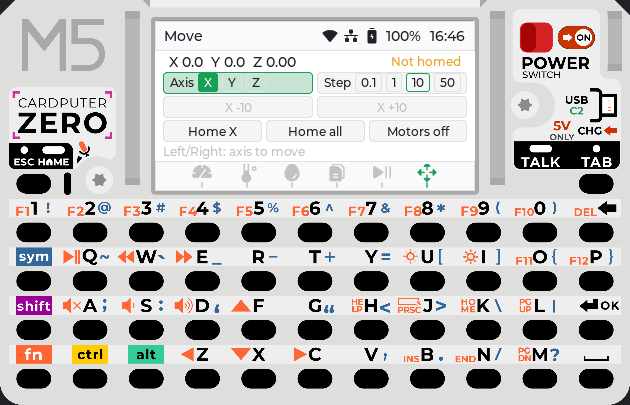
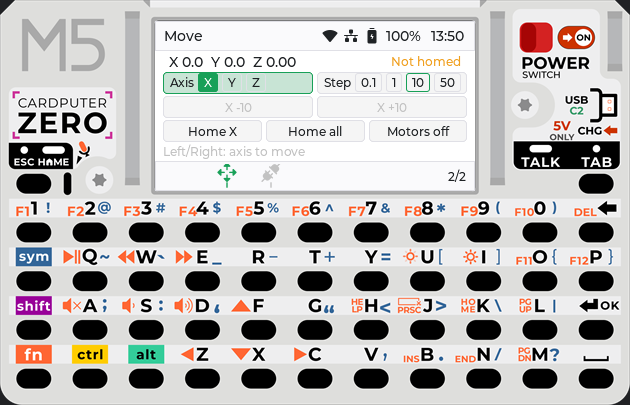
README: スクリーンショットをレイヤー制のナビバーで撮り直し、撮影スクリプトを追加

diff --git a/README.md b/README.md
@@ -23,7 +23,7 @@ M5Stack **CardputerZero** に Klipper / Moonraker を載せ、本体の画面と
 
 ### 画面構成
 
-<img src="docs/images/screen-status-printing.png" width="640" alt="印刷中の状態表示画面。上からタイトルバー、PRINTING バッジとファイル名と進捗バー、時間・レイヤー・温度、最下行の Speed/Flow/Fan、ナビバー">
+<img src="docs/images/screen-status-printing.png" width="640" alt="印刷中の状態表示画面。上からタイトルバー、PRINTING バッジとファイル名と進捗バー、時間・レイヤー・温度、最下行の Speed/Flow/Fan、5 スロットのナビバーと右端のレイヤー表示 1/2">
 
 どの画面も同じ枠組みです。
 
@@ -35,9 +35,7 @@ M5Stack **CardputerZero** に Klipper / Moonraker を載せ、本体の画面と
 - **トースト**: 操作の結果(成功 / Klipper のエラー)や「Printer is not ready」などを、画面下部に一時的に出す。
 - **テーマ**: ライト / ダークを `D` で切り替える。
 
-> この README のスクリーンショットは、デスクトップシミュレーターを疑似 Moonraker(fake_moonraker)に接続して撮影したものです。本体フレームとバーチャルキーボードを含めて表示しています(キーボード上の記号はシミュレーターでのキー割り当ての目安です)。
->
-> ⚠ スクリーンショットのナビバーは、レイヤー制にする前の旧仕様(6 アイコン、キー `4`〜`9`)のままです。現在のナビバーは上の説明のとおり 5 スロット + レイヤー表示です。撮り直すまでは説明のほうを正としてください。
+> この README のスクリーンショットは、デスクトップシミュレーターを疑似 Moonraker(fake_moonraker)に接続して撮影したものです。本体フレームとバーチャルキーボードを含めて表示しています(キーボード上の記号はシミュレーターでのキー割り当ての目安です)。撮り直し方は「[README のスクリーンショット](#readme-のスクリーンショット)」を参照してください。
 
 ### 画面一覧
 
@@ -74,7 +72,7 @@ M5Stack **CardputerZero** に Klipper / Moonraker を載せ、本体の画面と
 
 | 印刷中(ライト) | 印刷中(ダーク) |
 |---|---|
-| <img src="docs/images/screen-status-printing.png" width="640" alt="印刷中の状態表示(ライトテーマ)。PRINTING バッジ、ファイル名、進捗 1%、経過/残り時間、レイヤー 1/240、ノズル 213.4/215、ベッド 55.8/60"> | <img src="docs/images/screen-status-printing-dark.png" width="640" alt="印刷中の状態表示(ダークテーマ)"> |
+| <img src="docs/images/screen-status-printing.png" width="640" alt="印刷中の状態表示(ライトテーマ)。PRINTING バッジ、ファイル名、進捗 3%、経過 02:35 / 残り 1:20:25、レイヤー 7/240、ノズル 215.3/215、ベッド 58.4/60"> | <img src="docs/images/screen-status-printing-dark.png" width="640" alt="印刷中の状態表示(ダークテーマ)"> |
 
 <img src="docs/images/screen-status-ready.png" width="640" alt="待機中の状態表示。READY バッジと No active print、ノズル・ベッドの目標温度は off">
 
@@ -95,7 +93,7 @@ M5Stack **CardputerZero** に Klipper / Moonraker を載せ、本体の画面と
 
 #### 押し出し / 引き戻し(レイヤー 1 の `6`)
 
-<img src="docs/images/screen-extruder.png" width="640" alt="押し出し画面。上部に Ready to extrude、Length・Speed・Move(Retract / Extrude)の選択行">
+<img src="docs/images/screen-extruder.png" width="640" alt="押し出し画面。上部にノズル温度と Nozzle too cold to extrude(ノズルが冷えているため)、Length・Speed・Move(Retract / Extrude)の選択行">
 
 `↑`/`↓` で長さ(1/5/10/25/50 mm)・速度(2/5/10 mm/s)・向き(Retract / Extrude)を選び、`←`/`→` で切り替えます。`Enter` でどの行からでも実行します。画面上部にノズル温度と、押し出せるかどうかを出します。
 
@@ -128,7 +126,7 @@ M5Stack **CardputerZero** に Klipper / Moonraker を載せ、本体の画面と
 
 #### 軸の移動(レイヤー 2 の `4`)
 
-<img src="docs/images/screen-move.png" width="640" alt="移動画面。上部に X/Y/Z の位置と Not homed、Axis X/Y/Z と Step 0.1/1/10/50、X-10 / X+10、Home X・Home all・Motors off">
+<img src="docs/images/screen-move.png" width="640" alt="移動画面。上部に X/Y/Z の位置と Not homed、Axis X/Y/Z と Step 0.1/1/10/50、X-10 / X+10、Home X・Home all・Motors off。ナビバーはレイヤー 2(2/2)">
 
 `↑`/`↓` で項目(軸 / 移動量 / `−` 方向 / `+` 方向 / その軸のホーム / 全軸ホーム / モーターオフ)を選びます。軸(X/Y/Z)と移動量(0.1/1/10/50 mm)は `←`/`→` で切り替え、ほかの項目は `Enter` で実行します。画面上部にツールヘッドの位置とホーム済みの軸(「Not homed」、または「Homed」の後に軸名)を出します。
 
@@ -143,7 +141,7 @@ M5Stack **CardputerZero** に Klipper / Moonraker を載せ、本体の画面と
 
 #### 接続設定(レイヤー 2 の `5`、または `S`)
 
-<img src="docs/images/screen-settings.png" width="640" alt="接続設定画面。Connect to Network、Host・Port・API key、Save & connect、最下行に状態バッジ">
+<img src="docs/images/screen-settings.png" width="640" alt="接続設定画面。Connect to Network、Host・Port・API key、Save & connect、最下行に状態バッジ。ナビバーはレイヤー 2(2/2)">
 
 `↑`/`↓` で項目を選び、`Enter` で編集・確定、`←`/`→` で選択肢を切り替え、`ESC` で編集取消 / 戻るです。接続先は「このデバイス(Unix ソケット)」と「ネットワーク(WebSocket、Host / Port / API key)」から選べ、「Save & connect」で保存して接続し直します。最下行には常に状態バッジを出し、その横に通常は接続状態を、保存結果や入力エラーがある間はそのメッセージを出します。
 
@@ -203,6 +201,16 @@ port=7125
 ```
 
 実機につなぐ場合は `host=<プリンターIP>` に変更します。
+
+### README のスクリーンショット
+
+`docs/images/screen-*.png` は、デスクトップシミュレーターを疑似 Moonraker につないで撮っています。画面を変えたときは、Debug ビルドの後に次のスクリプトで全部撮り直せます(ポート 7125 を空けておいてください)。
+
+```powershell
+./tools/readme_screenshots/capture.ps1
+```
+
+シミュレーターのウィンドウにキー操作を送り、アプリのスクリーンショット機能で保存した画面(320x170)を本体フレームの画像に重ねて保存します。ウィンドウが画面に見えている必要はありません。`D` で切り替えたテーマは終了時に元に戻します。
 
 ## テスト
 
